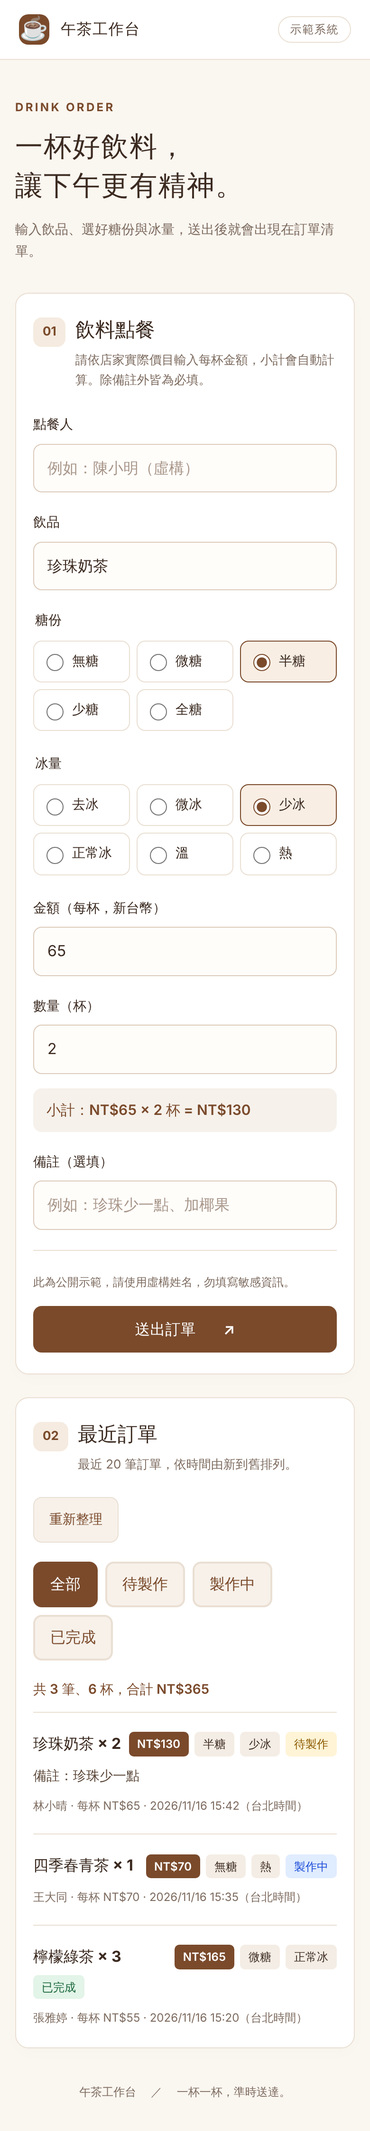
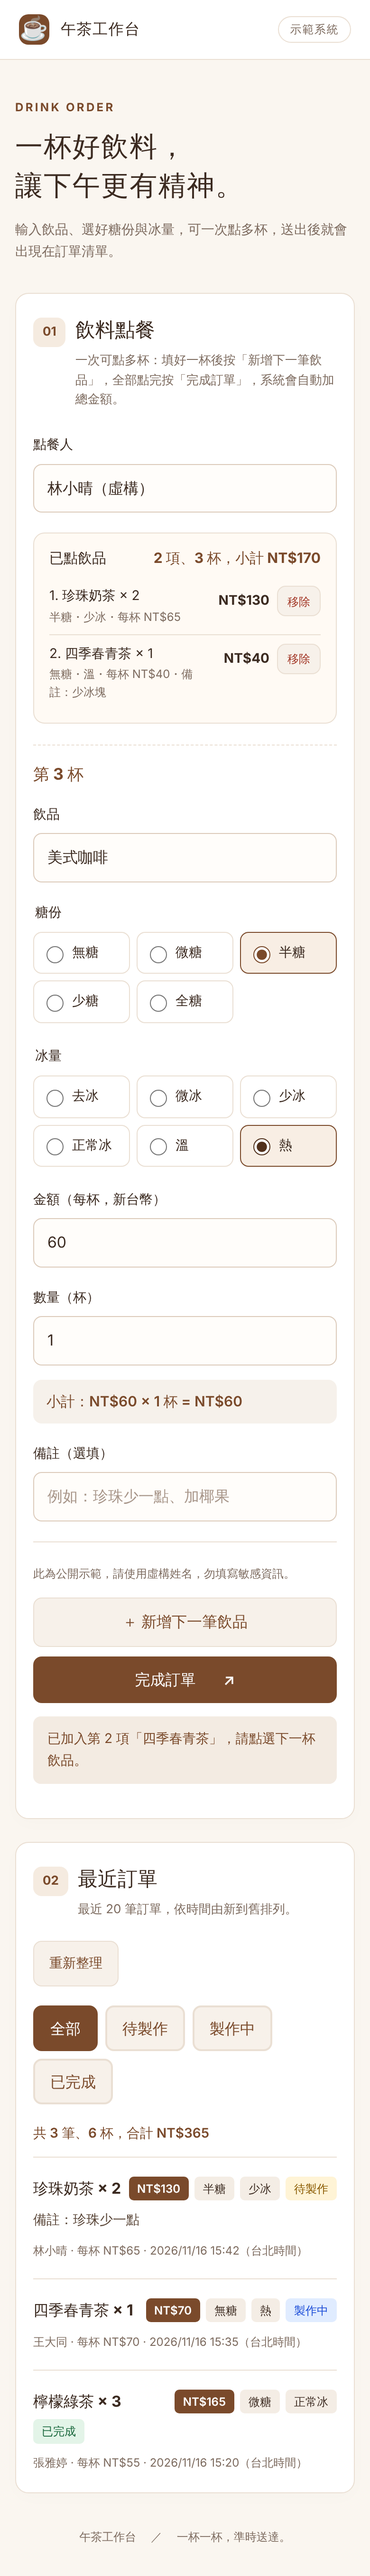
新增「新增下一筆飲品」與完成訂單自動加總
- 新增下一筆飲品：目前這杯加入已點清單，表單換成「第 N 杯」新頁面並保留點餐人
- 已點清單顯示每杯小計與累計，可移除項目，最多 20 項
- 完成訂單跳出確認頁，列出每杯並自動加總合計，確認後一次送出整張訂單
- 送出失敗保留已點內容可重新送出；更新提示將已點清單視為未送出內容
- 快取版本遞增為 v3，更新回歸測試、截圖、需求筆記與 README

Claude-Session: https://claude.ai/code/session_01PMThZ8T3LDcZiV1NZyRfh1

diff --git a/app.js b/app.js
@@ -8,7 +8,23 @@
   const cupTotal = document.querySelector('#cup-total');
   const list = document.querySelector('#order-list');
   const filterButtons = document.querySelectorAll('[data-status-filter]');
-  const SUBMIT_LABEL = '送出訂單 ↗';
+  const nextButton = document.querySelector('#next-button');
+  const cartBox = document.querySelector('#cart');
+  const cartList = document.querySelector('#cart-list');
+  const cartTotal = document.querySelector('#cart-total');
+  const itemEditor = document.querySelector('#item-editor');
+  const itemTitle = document.querySelector('#item-title');
+  const dialog = document.querySelector('#summary-dialog');
+  const summaryCustomer = document.querySelector('#summary-customer');
+  const summaryList = document.querySelector('#summary-list');
+  const summaryTotal = document.querySelector('#summary-total');
+  const summaryCount = document.querySelector('#summary-count');
+  const summaryMessage = document.querySelector('#summary-message');
+  const summaryBack = document.querySelector('#summary-back');
+  const summaryConfirm = document.querySelector('#summary-confirm');
+  const SUBMIT_LABEL = '完成訂單 ↗';
+  // 一次訂單最多幾項飲品（每項可再指定數量）。
+  const CART_MAX = 20;
   // 金額（每杯）與數量由點餐人依實際價目輸入；範圍須與 supabase/schema.sql 的 CHECK 一致。
   const AMOUNT_MAX = 9999;
   const QUANTITY_MAX = 50;
@@ -114,53 +130,173 @@
       list.setAttribute('aria-busy', 'false');
     }
   }
-  form.addEventListener('submit', async event => {
+  // ---- 多杯點餐：已點飲品暫存於本頁記憶體，不寫入瀏覽器儲存空間 ----
+  let cart = [];
+  let pendingItems = [];
+  const ITEM_FIELDS = ['drink', 'amount', 'quantity', 'note'];
+  const lineTotal = item => item.amount * item.quantity;
+  const sumOf = items => items.reduce((sum, item) => sum + lineTotal(item), 0);
+  const cupsOf = items => items.reduce((sum, item) => sum + item.quantity, 0);
+  const describe = item => `${item.sugar}・${item.ice}・每杯 ${money(item.amount)}${item.note ? `・備註：${item.note}` : ''}`;
+  const itemIsEmpty = () => ['drink', 'amount', 'note'].every(name => !String(form.elements[name].value || '').trim());
+  // 讀取目前這一杯；有誤時顯示訊息並回傳 null。
+  function readItem() {
+    for (const name of ITEM_FIELDS) {
+      if (!form.elements[name].reportValidity()) return null;
+    }
+    const values = new FormData(form);
+    const text = key => String(values.get(key) || '').trim();
+    const item = { drink: text('drink'), sugar: text('sugar'), ice: text('ice') };
+    if (!item.drink || !item.sugar || !item.ice) {
+      showMessage(formMessage, '請填寫飲品並選擇糖份與冰量，內容不可只有空白。', 'error');
+      form.elements.drink.focus();
+      return null;
+    }
+    item.amount = wholeNumber(values.get('amount'), AMOUNT_MAX);
+    if (!item.amount) {
+      showMessage(formMessage, `金額須為 1 到 ${AMOUNT_MAX} 元的整數（每杯價格）。`, 'error');
+      return null;
+    }
+    item.quantity = wholeNumber(values.get('quantity'), QUANTITY_MAX);
+    if (!item.quantity) {
+      showMessage(formMessage, `數量須為 1 到 ${QUANTITY_MAX} 杯的整數。`, 'error');
+      return null;
+    }
+    item.note = text('note') || null;
+    return item;
+  }
+  // 清空目前這一杯，保留點餐人；糖份與冰量回到預設值。
+  function resetItem() {
+    ITEM_FIELDS.forEach(name => {
+      const field = form.elements[name];
+      field.value = field.defaultValue;
+    });
+    form.querySelectorAll('#item-editor input[type=radio]').forEach(radio => { radio.checked = radio.defaultChecked; });
+    updateSubtotal();
+  }
+  function renderCart() {
+    form.dataset.cartCount = String(cart.length);
+    itemTitle.textContent = `第 ${cart.length + 1} 杯`;
+    nextButton.disabled = submitting || cart.length >= CART_MAX - 1;
+    cartBox.hidden = !cart.length;
+    cartTotal.textContent = cart.length ? `${cart.length} 項、${cupsOf(cart)} 杯，小計 ${money(sumOf(cart))}` : '';
+    cartList.replaceChildren(...cart.map((item, index) => {
+      const row = element('li', 'cart-item', '');
+      const label = element('div', 'cart-item-text', `${index + 1}. ${item.drink} × ${item.quantity}`);
+      label.append(element('small', '', describe(item)));
+      const end = element('div', 'cart-item-end', '');
+      const remove = element('button', 'cart-remove', '移除');
+      remove.type = 'button';
+      remove.setAttribute('aria-label', `移除第 ${index + 1} 項 ${item.drink}`);
+      remove.addEventListener('click', () => {
+        cart.splice(index, 1);
+        renderCart();
+        showMessage(formMessage, `已移除「${item.drink}」。`);
+      });
+      end.append(element('span', 'cart-item-price', money(lineTotal(item))), remove);
+      row.append(label, end);
+      return row;
+    }));
+  }
+  // 「新增下一筆飲品」：把目前這一杯加入已點清單，換成新的一頁點下一杯。
+  nextButton.addEventListener('click', () => {
+    if (submitting) return;
+    if (cart.length >= CART_MAX - 1) {
+      showMessage(formMessage, `一次最多點 ${CART_MAX} 項，請先按「完成訂單」。`, 'error');
+      return;
+    }
+    const item = readItem();
+    if (!item) return;
+    cart.push(item);
+    resetItem();
+    renderCart();
+    itemEditor.classList.remove('page-in');
+    void itemEditor.offsetWidth;
+    itemEditor.classList.add('page-in');
+    showMessage(formMessage, `已加入第 ${cart.length} 項「${item.drink}」，請點選下一杯飲品。`, 'success');
+    itemTitle.scrollIntoView({ block: 'start', behavior: 'smooth' });
+    form.elements.drink.focus({ preventScroll: true });
+  });
+  // 「完成訂單」：合併已點清單與目前這一杯，跳出確認頁並自動加總金額。
+  form.addEventListener('submit', event => {
     event.preventDefault();
+    if (submitting) return;
     if (!navigator.onLine) {
       showMessage(formMessage, '目前離線，訂單尚未送出。請恢復連線後再送出；不會自動補送。', 'error');
       return;
     }
-    if (submitting || !client || !form.reportValidity()) return;
-    const values = new FormData(form);
-    const text = key => String(values.get(key) || '').trim();
-    const payload = Object.fromEntries(['customer_name', 'drink', 'sugar', 'ice']
-      .map(key => [key, text(key)]));
-    if (Object.values(payload).some(value => !value)) {
-      showMessage(formMessage, '請完整填寫所有欄位，內容不可只有空白。', 'error');
+    if (!client) return;
+    const nameField = form.elements.customer_name;
+    if (!nameField.reportValidity()) return;
+    const customerName = nameField.value.trim();
+    if (!customerName) {
+      showMessage(formMessage, '請填寫點餐人，內容不可只有空白。', 'error');
+      nameField.focus();
       return;
     }
-    const amount = wholeNumber(values.get('amount'), AMOUNT_MAX);
-    if (!amount) {
-      showMessage(formMessage, `金額須為 1 到 ${AMOUNT_MAX} 元的整數（每杯價格）。`, 'error');
+    let items = cart.slice();
+    if (!itemIsEmpty() || !cart.length) {
+      const item = readItem();
+      if (!item) return;
+      items.push(item);
+    }
+    pendingItems = items.map(item => ({ customer_name: customerName, ...item }));
+    summaryCustomer.textContent = `點餐人：${customerName}`;
+    summaryList.replaceChildren(...pendingItems.map((item, index) => {
+      const row = element('li', 'summary-item', '');
+      const label = element('div', 'summary-item-text', `${index + 1}. ${item.drink} × ${item.quantity}`);
+      label.append(element('small', '', describe(item)));
+      row.append(label, element('span', 'summary-item-price', money(lineTotal(item))));
+      return row;
+    }));
+    summaryTotal.textContent = money(sumOf(pendingItems));
+    summaryCount.textContent = `${pendingItems.length} 項、${cupsOf(pendingItems)} 杯`;
+    showMessage(summaryMessage, '');
+    summaryConfirm.disabled = false;
+    summaryConfirm.textContent = '確認送出';
+    summaryBack.disabled = false;
+    dialog.showModal();
+  });
+  summaryBack.addEventListener('click', () => { if (!submitting) dialog.close(); });
+  dialog.addEventListener('cancel', event => { if (submitting) event.preventDefault(); });
+  summaryConfirm.addEventListener('click', async () => {
+    if (submitting || !pendingItems.length) return;
+    if (!navigator.onLine) {
+      showMessage(summaryMessage, '目前離線，訂單尚未送出。請恢復連線後再按「確認送出」。', 'error');
       return;
     }
-    const quantity = wholeNumber(values.get('quantity'), QUANTITY_MAX);
-    if (!quantity) {
-      showMessage(formMessage, `數量須為 1 到 ${QUANTITY_MAX} 杯的整數。`, 'error');
-      return;
-    }
-    Object.assign(payload, { amount, quantity });
-    const note = text('note');
-    if (note) payload.note = note;
     submitting = true;
+    summaryConfirm.disabled = true;
+    summaryBack.disabled = true;
     submitButton.disabled = true;
-    submitButton.textContent = '正在送出…';
-    showMessage(formMessage, '正在送出訂單…');
+    nextButton.disabled = true;
+    summaryConfirm.textContent = '正在送出…';
+    showMessage(summaryMessage, '正在送出訂單…');
+    const items = pendingItems;
     try {
-      const { error } = await client.from('drink_orders').insert(payload);
+      // 一次送出整張訂單；資料庫以單一指令新增，全部成功或全部失敗。
+      const { error } = await client.from('drink_orders').insert(items);
       if (error) throw error;
+      dialog.close();
+      cart = [];
+      pendingItems = [];
       form.reset();
       updateSubtotal();
-      showMessage(formMessage, '訂單已成功送出！飲料準備中，請留意清單狀態。', 'success');
+      showMessage(formMessage, `訂單已成功送出！共 ${items.length} 項、${cupsOf(items)} 杯，合計 ${money(sumOf(items))}。`, 'success');
       await loadOrders();
     } catch (error) {
-      showMessage(formMessage, `送出失敗，已保留填寫內容。請確認連線後重試；若連線中斷，請先重新整理清單確認是否已下單。錯誤：${error.message || '連線失敗'}`, 'error');
+      showMessage(summaryMessage, `送出失敗，已點內容都保留。請確認連線後重試；若連線中斷，請先關閉此視窗並重新整理清單確認是否已下單。錯誤：${error.message || '連線失敗'}`, 'error');
+      summaryConfirm.disabled = false;
+      summaryBack.disabled = false;
+      summaryConfirm.textContent = '重新送出';
     } finally {
       submitting = false;
       submitButton.disabled = !navigator.onLine;
       submitButton.textContent = SUBMIT_LABEL;
+      renderCart();
     }
   });
+  renderCart();
   refreshButton.addEventListener('click', loadOrders);
   const updateConnection = () => {
     submitButton.disabled = submitting || !client || !navigator.onLine;

diff --git a/index.html b/index.html
@@ -19,20 +19,36 @@
   <header class="topbar"><div class="brand"><span class="brand-icon" aria-hidden="true">☕</span>午茶工作台<span class="demo">示範系統</span></div></header>
   <main>
     <div class="pwa-tools"><div id="update-banner" class="update-banner" role="status" aria-live="polite" hidden><span id="update-text">有新版本可以使用。</span><button id="update-button" type="button">立即更新</button></div><button id="install-button" class="secondary" type="button" hidden>安裝點餐系統</button><p id="connection-message" class="message" role="status" hidden></p></div>
-    <div class="intro"><p class="eyebrow">DRINK ORDER</p><h1>一杯好飲料，<br>讓下午更有精神。</h1><p>輸入飲品、選好糖份與冰量，送出後就會出現在訂單清單。</p></div>
+    <div class="intro"><p class="eyebrow">DRINK ORDER</p><h1>一杯好飲料，<br>讓下午更有精神。</h1><p>輸入飲品、選好糖份與冰量，可一次點多杯，送出後就會出現在訂單清單。</p></div>
     <section class="panel" aria-labelledby="form-title">
-      <div class="section-heading"><span class="step">01</span><div><h2 id="form-title">飲料點餐</h2><p>請依店家實際價目輸入每杯金額，小計會自動計算。除備註外皆為必填。</p></div></div>
-      <form id="order-form">
-        <div class="grid"><label>點餐人<input name="customer_name" autocomplete="name" required maxlength="100" placeholder="例如：陳小明（虛構）"></label><label>飲品<input name="drink" required maxlength="50" autocomplete="off" placeholder="例如：珍珠奶茶、四季春青茶"></label></div>
-        <fieldset><legend>糖份</legend><div class="choice-options five"><label><input type="radio" name="sugar" value="無糖" required><span>無糖</span></label><label><input type="radio" name="sugar" value="微糖"><span>微糖</span></label><label><input type="radio" name="sugar" value="半糖" checked><span>半糖</span></label><label><input type="radio" name="sugar" value="少糖"><span>少糖</span></label><label><input type="radio" name="sugar" value="全糖"><span>全糖</span></label></div></fieldset>
-        <fieldset><legend>冰量</legend><div class="choice-options six"><label><input type="radio" name="ice" value="去冰" required><span>去冰</span></label><label><input type="radio" name="ice" value="微冰"><span>微冰</span></label><label><input type="radio" name="ice" value="少冰" checked><span>少冰</span></label><label><input type="radio" name="ice" value="正常冰"><span>正常冰</span></label><label><input type="radio" name="ice" value="溫"><span>溫</span></label><label><input type="radio" name="ice" value="熱"><span>熱</span></label></div></fieldset>
-        <div class="grid"><label>金額（每杯，新台幣）<input name="amount" type="number" inputmode="numeric" required min="1" max="9999" step="1" placeholder="依店家實際價目輸入，例如 55"></label><label>數量（杯）<input name="quantity" type="number" inputmode="numeric" required min="1" max="50" step="1" value="1"></label></div>
-        <p id="subtotal" class="subtotal" aria-live="polite">小計：請輸入金額與數量</p>
-        <label>備註（選填）<input name="note" maxlength="200" placeholder="例如：珍珠少一點、加椰果"></label>
-        <div class="form-footer"><p>此為公開示範，請使用虛構姓名，勿填寫敏感資訊。</p><button id="submit-button" type="submit">送出訂單 <span aria-hidden="true">↗</span></button></div>
+      <div class="section-heading"><span class="step">01</span><div><h2 id="form-title">飲料點餐</h2><p>一次可點多杯：填好一杯後按「新增下一筆飲品」，全部點完按「完成訂單」，系統會自動加總金額。</p></div></div>
+      <form id="order-form" novalidate>
+        <label>點餐人<input name="customer_name" autocomplete="name" required maxlength="100" placeholder="例如：陳小明（虛構）"></label>
+        <div id="cart" class="cart" hidden>
+          <div class="cart-head"><strong>已點飲品</strong><span id="cart-total" class="cart-total"></span></div>
+          <ol id="cart-list" class="cart-list" aria-label="已點飲品"></ol>
+        </div>
+        <div id="item-editor" class="item-editor">
+          <h3 id="item-title" class="item-title" tabindex="-1">第 1 杯</h3>
+          <label>飲品<input name="drink" required maxlength="50" autocomplete="off" placeholder="例如：珍珠奶茶、四季春青茶"></label>
+          <fieldset><legend>糖份</legend><div class="choice-options five"><label><input type="radio" name="sugar" value="無糖" required><span>無糖</span></label><label><input type="radio" name="sugar" value="微糖"><span>微糖</span></label><label><input type="radio" name="sugar" value="半糖" checked><span>半糖</span></label><label><input type="radio" name="sugar" value="少糖"><span>少糖</span></label><label><input type="radio" name="sugar" value="全糖"><span>全糖</span></label></div></fieldset>
+          <fieldset><legend>冰量</legend><div class="choice-options six"><label><input type="radio" name="ice" value="去冰" required><span>去冰</span></label><label><input type="radio" name="ice" value="微冰"><span>微冰</span></label><label><input type="radio" name="ice" value="少冰" checked><span>少冰</span></label><label><input type="radio" name="ice" value="正常冰"><span>正常冰</span></label><label><input type="radio" name="ice" value="溫"><span>溫</span></label><label><input type="radio" name="ice" value="熱"><span>熱</span></label></div></fieldset>
+          <div class="grid"><label>金額（每杯，新台幣）<input name="amount" type="number" inputmode="numeric" required min="1" max="9999" step="1" placeholder="依店家實際價目輸入，例如 55"></label><label>數量（杯）<input name="quantity" type="number" inputmode="numeric" required min="1" max="50" step="1" value="1"></label></div>
+          <p id="subtotal" class="subtotal" aria-live="polite">小計：請輸入金額與數量</p>
+          <label>備註（選填）<input name="note" maxlength="200" placeholder="例如：珍珠少一點、加椰果"></label>
+        </div>
+        <div class="form-footer"><p>此為公開示範，請使用虛構姓名，勿填寫敏感資訊。</p><div class="form-actions"><button id="next-button" class="secondary" type="button">＋ 新增下一筆飲品</button><button id="submit-button" type="submit">完成訂單 <span aria-hidden="true">↗</span></button></div></div>
         <p id="form-message" class="message" role="status" aria-live="polite" hidden></p>
       </form>
     </section>
+    <dialog id="summary-dialog" class="summary-dialog" aria-labelledby="summary-title">
+      <h2 id="summary-title">確認訂單</h2>
+      <p id="summary-customer" class="summary-customer"></p>
+      <ol id="summary-list" class="summary-list"></ol>
+      <p class="summary-total"><span>合計<small id="summary-count"></small></span><strong id="summary-total"></strong></p>
+      <p id="summary-message" class="message" role="status" aria-live="polite" hidden></p>
+      <div class="summary-actions"><button id="summary-back" class="secondary" type="button">返回修改</button><button id="summary-confirm" type="button">確認送出</button></div>
+    </dialog>
     <section class="panel orders-panel" aria-labelledby="list-title"><div class="list-heading"><div class="section-heading"><span class="step">02</span><div><h2 id="list-title">最近訂單</h2><p>最近 20 筆訂單，依時間由新到舊排列。</p></div></div><button id="refresh-button" class="secondary" type="button">重新整理</button></div><div class="status-filters" role="group" aria-label="依製作狀態篩選訂單"><button type="button" data-status-filter="全部" aria-pressed="true">全部</button><button type="button" data-status-filter="待製作" aria-pressed="false">待製作</button><button type="button" data-status-filter="製作中" aria-pressed="false">製作中</button><button type="button" data-status-filter="已完成" aria-pressed="false">已完成</button></div><p id="cup-total" class="cup-total" hidden></p><p id="list-message" class="message" role="status" aria-live="polite">正在載入訂單…</p><ul id="order-list" class="order-list" aria-label="最近訂單"></ul></section>
     <footer>午茶工作台 <span>／</span> 一杯一杯，準時送達。</footer>
   </main>

diff --git a/style.css b/style.css
@@ -6,3 +6,5 @@
 .subtotal{margin:-6px 0 21px;padding:11px 14px;border-radius:9px;background:#f6f1eb;color:var(--green);font-weight:600;font-size:15px}.badge.amount{background:var(--green);color:#fff;font-weight:600}
 .update-banner{display:flex;align-items:center;justify-content:space-between;gap:12px;flex-wrap:wrap;padding:12px 15px;margin-bottom:12px;border-radius:10px;background:#fff4d6;border:1px solid #f0d58c;color:#6b4500;font-size:14px;font-weight:600}.update-banner button{min-height:40px;padding:8px 18px;font-size:14px}.pwa-tools>.update-banner:last-child{margin-bottom:0}
 .choice-options.six{grid-template-columns:repeat(6,1fr)}@media(max-width:600px){.choice-options.six{grid-template-columns:repeat(3,1fr)}}
+.cart{border:1px solid var(--line);border-radius:12px;background:#fffaf4;padding:14px 16px;margin:0 0 22px}.cart-head{display:flex;justify-content:space-between;align-items:center;gap:10px;margin-bottom:8px;font-size:15px}.cart-total{color:var(--green);font-weight:700}.cart-list,.summary-list{list-style:none;margin:0;padding:0}.cart-item,.summary-item{display:flex;align-items:flex-start;justify-content:space-between;gap:10px;padding:9px 0;border-top:1px solid var(--line);font-size:14px}.cart-item:first-child,.summary-item:first-child{border-top:0}.cart-item-text,.summary-item-text{overflow-wrap:anywhere}.cart-item-text small,.summary-item-text small{display:block;color:var(--muted);font-size:12px}.cart-item-price,.summary-item-price{font-weight:700;white-space:nowrap}.cart-item-end{display:flex;align-items:center;gap:8px}.cart-remove{min-height:32px;padding:4px 10px;font-size:12px;background:#f7f1ea;color:#a13423;border:1px solid var(--line)}.item-editor{border-top:1px dashed var(--line);padding-top:4px}.item-title{font-size:17px;margin:14px 0 16px;color:var(--green)}.item-title:focus{outline:none}.item-editor.page-in{animation:page-in .35s ease}@keyframes page-in{from{opacity:0;transform:translateX(24px)}to{opacity:1;transform:none}}@media(prefers-reduced-motion:reduce){.item-editor.page-in{animation:none}}.form-actions{display:flex;gap:10px;flex-wrap:wrap;justify-content:flex-end}.form-actions .secondary{font-size:16px;padding:12px 18px}.summary-dialog{width:min(520px,calc(100vw - 32px));max-height:calc(100dvh - 32px);border:0;border-radius:16px;padding:24px;color:inherit;background:#fff;box-shadow:0 20px 60px #3b2a2040}.summary-dialog::backdrop{background:#3b2a2066}.summary-dialog h2{margin:0 0 6px}.summary-customer{margin:0 0 12px;color:var(--muted);font-size:14px;overflow-wrap:anywhere}.summary-total{display:flex;justify-content:space-between;align-items:baseline;border-top:2px solid var(--green);margin:8px 0 16px;padding-top:12px;font-weight:600}.summary-total strong{font-size:24px;color:var(--green)}.summary-actions{display:flex;justify-content:flex-end;gap:10px;flex-wrap:wrap}.summary-dialog .message{margin:0 0 14px}@media(max-width:600px){.form-actions{flex-direction:column}.form-actions button{width:100%}.summary-dialog{padding:20px 16px}.summary-actions button{flex:1}}
+.item-editor>label{display:block;margin-bottom:21px;font-size:14px;font-weight:600}.summary-total small{display:block;font-size:12px;font-weight:400;color:var(--muted)}

diff --git a/pwa.js b/pwa.js
@@ -56,6 +56,8 @@
   const formHasInput = () => {
     const form = document.querySelector('#order-form');
     if (!form) return false;
+    // 已加入「已點飲品」但尚未完成訂單的項目也算未送出的內容。
+    if (Number(form.dataset.cartCount) > 0) return true;
     return ['customer_name', 'drink', 'amount', 'note'].some(name => {
       const field = form.elements[name];
       return field && String(field.value || '').trim() !== '';

diff --git a/sw.js b/sw.js
@@ -3,7 +3,7 @@
 // existing tabs close, or until the user presses the update banner in pwa.js,
 // so an active form is never reloaded without the user's consent.
 const CACHE_PREFIX = `drink-shell:${self.registration.scope}:`;
-const CACHE_NAME = `${CACHE_PREFIX}v2`;
+const CACHE_NAME = `${CACHE_PREFIX}v3`;
 self.addEventListener('message', event => {
   if (event.data && event.data.type === 'SKIP_WAITING') self.skipWaiting();
 });

diff --git a/README.md b/README.md
@@ -10,7 +10,9 @@
 - 表單欄位：點餐人、飲品（手動輸入，最多 50 字）、糖份（無糖～全糖）、冰量（去冰、微冰、少冰、正常冰、溫、熱）、金額、數量、備註（選填）。
 - 金額為每杯價格，依店家實際價目手動輸入（1～9,999 元整數）；數量 1～50 杯。表單即時顯示「小計＝金額 × 數量」。系統不內建價目表，無法確認輸入的金額是否正確。
 - 清單：最近 20 筆，新的在上面，時間以台北時間顯示；可依製作狀態「全部、待製作、製作中、已完成」篩選（僅篩選已載入的 20 筆），並顯示目前篩選的筆數、杯數與合計金額。
-- 前端只送出 customer_name、drink、sugar、ice、amount、quantity 及有填寫的 note；狀態與下單時間由資料庫產生。
+- 一次點多杯：填好一杯後按「＋ 新增下一筆飲品」，這杯會加入「已點飲品」清單（可按「移除」），表單換成「第 N 杯」的新頁面並保留點餐人。全部點完按「完成訂單」，跳出「確認訂單」頁面列出每杯小計並自動加總合計金額；按「確認送出」才寫入資料庫，按「返回修改」可繼續編輯。目前頁面若空白且清單已有飲品，只送出清單內容。一次最多 20 項。畫面見 [確認訂單](docs/order-summary.png)。
+- 整張訂單以一次陣列新增送出，資料庫以單一指令寫入，全部成功或全部失敗；送出失敗時保留已點內容，可按「重新送出」。資料庫沒有訂單編號欄位，每杯仍是一筆紀錄，清單依筆顯示。已點飲品只存在目前頁面，重新載入或關閉後不保留。
+- 前端每杯送出 customer_name、drink、sugar、ice、amount、quantity、note（未填為 null）；狀態與下單時間由資料庫產生。本功能不需資料庫遷移。
 
 本機啟動：在根目錄執行 `python3 -m http.server 8000`，開啟 http://localhost:8000 。語法檢查：`node --check app.js` 與 `node --check config.js`。
 
@@ -31,7 +33,7 @@
 網頁提供 `manifest.webmanifest`、192／512px 圖示與 `sw.js` Service Worker，可在支援的瀏覽器加入主畫面。正式安裝需 HTTPS（GitHub Pages 已提供）；本機測試可用 `http://localhost`。
 
 - 第一次需連線開啟，Service Worker 快取後才可離線重新開啟介面。離線時停用送出與重新整理，不儲存訂單或表單，也不自動補送。
-- 快取僅限此目錄的靜態介面、公開設定、manifest 與圖示；不快取 Supabase API、訂單資料或外部 CDN，也不攔截 POST。修改快取檔案時須遞增 `sw.js` 的 `CACHE_NAME` 版本（目前 `drink-shell` `v2`）；啟用時會清除同範圍舊報修版快取。
+- 快取僅限此目錄的靜態介面、公開設定、manifest 與圖示；不快取 Supabase API、訂單資料或外部 CDN，也不攔截 POST。修改快取檔案時須遞增 `sw.js` 的 `CACHE_NAME` 版本（目前 `drink-shell` `v3`）；啟用時會清除同範圍舊報修版快取。
 - 新版更新提示：部署新版後，已開啟的頁面在背景下載新版，完成後於頁面上方顯示「有新版本可以使用。」與「立即更新」按鈕，不會自動重新載入。按下按鈕才啟用新版並重新載入；若表單已有填寫內容，會先確認是否放棄。回到頁面時也會檢查是否有新版。若新版已由其他分頁啟用，提示改為「新版本已在其他分頁啟用。」，按鈕直接重新載入。畫面見 [更新提示](docs/update-banner.png)。
 - 已停留在舊版（v1 以前）的瀏覽器沒有這個提示，需要關閉此網站的所有分頁（已安裝的 App 需從多工畫面關閉）後重新開啟，才會換成新版；之後的更新即會顯示提示。
 
